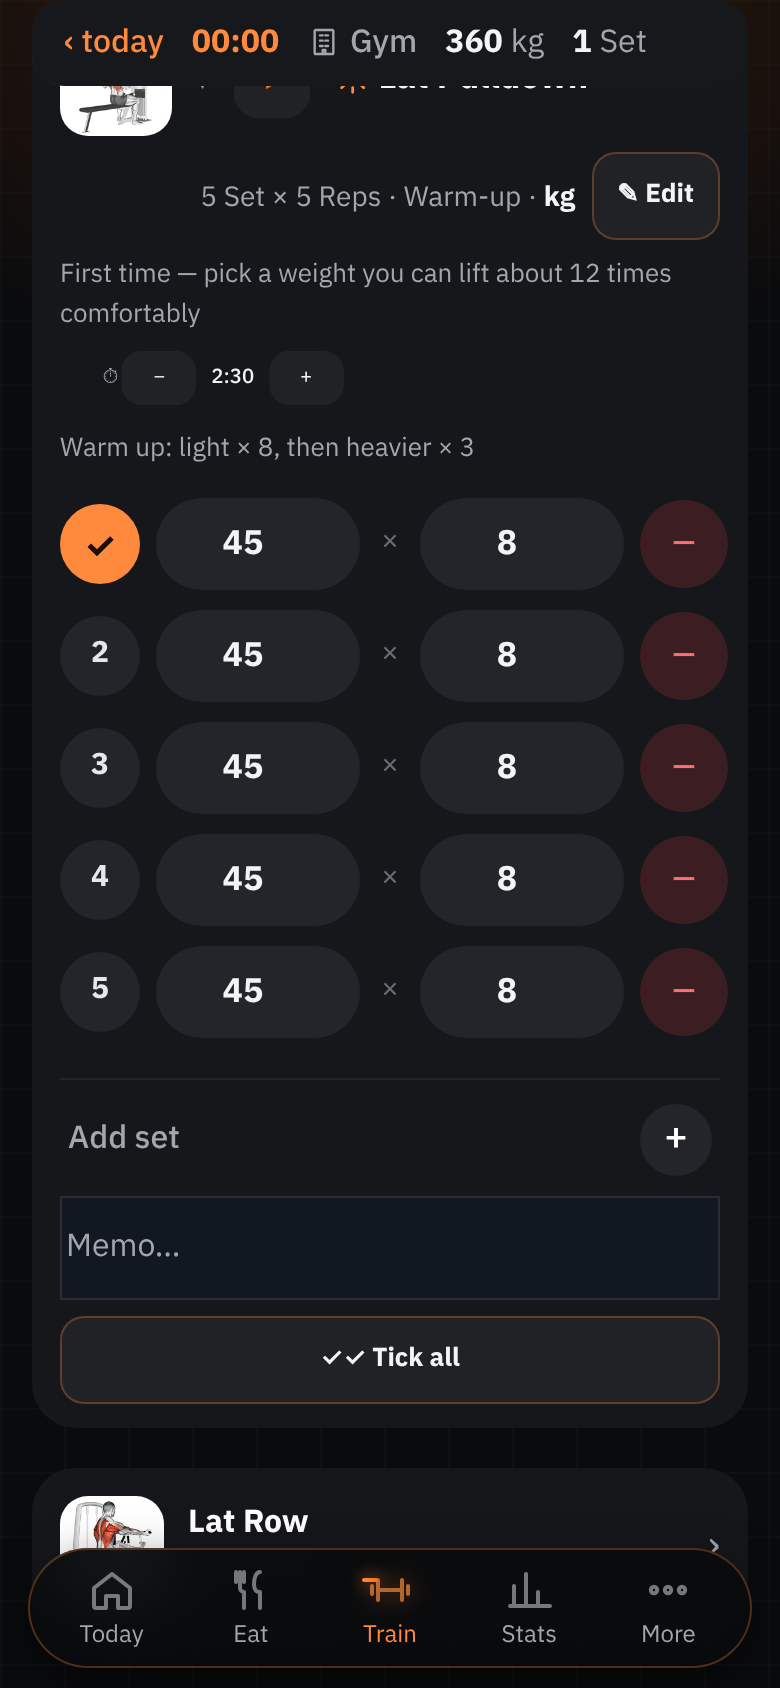
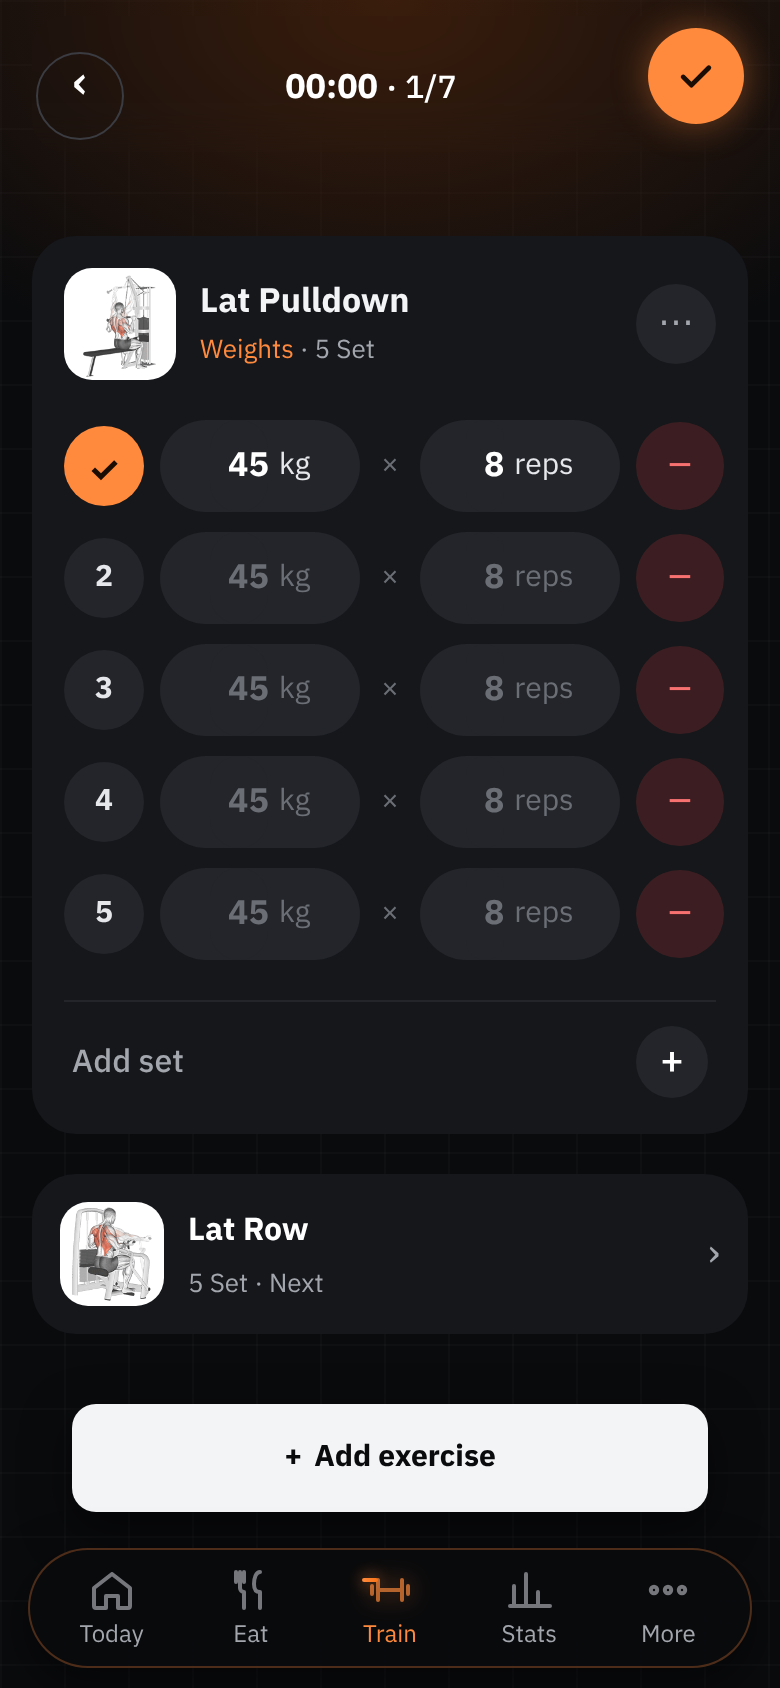
Workout: match mock 3 (#269)
* Train: Start button identical to Today's

Claude-Session: https://claude.ai/code/session_01TA1QFnqgBxBRFsiXemJ9Lg

* fix(Train workout): Cancel / Finish stay reachable while the rest timer runs

Claude-Session: https://claude.ai/code/session_01TA1QFnqgBxBRFsiXemJ9Lg

* fix(Train workout): editing an exercise shows one bottom bar and a labelled Done

Claude-Session: https://claude.ai/code/session_01TA1QFnqgBxBRFsiXemJ9Lg

* Train: Main lift and reorder arrows only in Edit exercises

Claude-Session: https://claude.ai/code/session_01TA1QFnqgBxBRFsiXemJ9Lg

* Train workout: close the rest timer before Cancel / Finish

Claude-Session: https://claude.ai/code/session_01TA1QFnqgBxBRFsiXemJ9Lg

* Train: one typeface everywhere

Claude-Session: https://claude.ai/code/session_01TA1QFnqgBxBRFsiXemJ9Lg

* Train workout: Cancel / Finish sit right after Add exercise, no floating

Claude-Session: https://claude.ai/code/session_01TA1QFnqgBxBRFsiXemJ9Lg

* Train: program sheet lists every exercise

Claude-Session: https://claude.ai/code/session_01TA1QFnqgBxBRFsiXemJ9Lg

* Back to today: one look on Today/Eat/Train

Claude-Session: https://claude.ai/code/session_01TA1QFnqgBxBRFsiXemJ9Lg

* Program sheet: numbered exercises, how-to, no place chip

Claude-Session: https://claude.ai/code/session_01TA1QFnqgBxBRFsiXemJ9Lg

* Program sheet: one line per exercise

Claude-Session: https://claude.ai/code/session_01TA1QFnqgBxBRFsiXemJ9Lg

* Train & Eat rows follow Today row layout
[…]

diff --git a/public/js/workout.js b/public/js/workout.js
@@ -216,3 +216,24 @@ function decorateSets(){const ex=sessEx();document.querySelectorAll("#exs>.ex").
 {const o=renderEx;renderEx=function(){const r=o.apply(this,arguments);try{decorateSets()}catch(e){console.error(e)}return r}}
 {const o=applyPager;applyPager=function(){const r=o.apply(this,arguments);try{decorateSets()}catch(e){}return r}}
 Object.assign(EN,{"เพิ่มเซ็ต":"Add set"});
+/* ===== workout = mock 3 exactly: top bar ‹ time · i/n ✓, card header thumb+name+sub+•••, pills with units, white Add exercise ===== */
+function mockTop(){const tp=document.getElementById("wo-top");if(!tp)return;if(!tp.querySelector(".wt-fin")){tp.insertAdjacentHTML("beforeend",`<span class="wt-pos" id="wt-pos"></span><button class="wt-fin" aria-label="${t("จบและบันทึก")}"><svg viewBox="0 0 24 24" width="22" height="22"><path d="M5 12.5l4.5 4.5L19 7.5" fill="none" stroke="currentColor" stroke-width="2.6" stroke-linecap="round" stroke-linejoin="round"/></svg></button>`);tp.querySelector(".wt-fin").addEventListener("click",()=>document.getElementById("save-w").click())}
+  const n=document.querySelectorAll("#exs>.ex").length;const p=document.getElementById("wt-pos");if(p)p.textContent=n?` · ${woIdx+1}/${n}`:""}
+function mockCards(){const ex=sessEx();document.querySelectorAll("#exs>.ex").forEach((card,ci)=>{const e=ex[ci];if(!e||card.dataset.mk)return;card.dataset.mk=1;
+  const L=lastFor(e.id),rows=(draft.ex||{})[e.id]||[],u=e.u||"kg";const kind=(()=>{try{return isCardio(PROGS[cur])?t("คาร์ดิโอ"):t("เวท")}catch(x){return ""}})();
+  const g=(()=>{try{return gifOf(EXLIB.find(q=>q.id===e.id)||e)}catch(x){return ""}})();
+  const hd=document.createElement("div");hd.className="mk-h";hd.innerHTML=`<span class="ls-th"${g?` style="background-image:url('${esc(g)}')"`:""}>${g?"":licon("dumbbell")}</span><span class="mk-t"><b>${esc(e.n)}</b><small><em>${kind}</em> · ${rows.length} ${t("เซ็ต")}${L&&L.sets[0]?` · ${t("ล่าสุด")} ${toDisp(L.sets[0].kg,u)}${u}×${L.sets[0].reps}`:""}</small></span><button type="button" class="mk-more" aria-label="${t("ตัวเลือก")}">⋯</button>`;
+  card.prepend(hd);
+  hd.querySelector(".mk-more").addEventListener("click",()=>{const q=s=>card.querySelector(s);
+    openGen(esc(e.n),`<div class="pm-menu">${[["how","▶","วิธีเล่น"],["edit","✎","แก้ไขท่า"],["load","↺","ใช้ค่าครั้งก่อน"],["all","✓✓","ติ๊กทุกเซ็ต"],["memo","✎","เมโม"],["rest","⏱",`${t("เวลาพัก")} ${fmt(restFor(e))}`],["unit","⇄",`${t("หน่วย")}: ${u}`],["cancel","✕","ยกเลิกการออก"]].filter(([k])=>k!=="load"||q("[data-load]")).map(([k,i,l])=>`<button class="menu-row${k==="cancel"?" warn":""}" data-mk="${k}"><span class="mi">${i}</span><span class="mt"><b>${t(l)}</b></span></button>`).join("")}</div><button class="btn" data-gen-close>${t("ปิด")}</button>`,
+      b=>b.querySelectorAll("[data-mk]").forEach(x=>x.addEventListener("click",()=>{const k=x.dataset.mk;closeGen();
+        if(k==="how")openHowTo(e.id,e.n);else if(k==="edit")q("[data-edit]")?.click();else if(k==="load")q("[data-load]")?.click();else if(k==="all")q("[data-all]")?.click();
+        else if(k==="memo"){const v=prompt(t("เมโม…"),(draft.memo||{})[e.id]||"");if(v!=null){draft.memo=draft.memo||{};draft.memo[e.id]=v;save("gymdraft",draft)}}
+        else if(k==="rest"){const v=prompt(t("เวลาพัก (วินาที)"),restFor(e));if(v&&+v>0){restCfg[e.id]=Math.max(15,Math.min(600,+v));save("restcfg",restCfg)}}
+        else if(k==="unit")q("[data-unit]")?.click();else if(k==="cancel")document.getElementById("cancel-w").click()})))});
+  /* pills: value + unit, future rows dimmed */
+  const first=rows.findIndex(r=>!r.ok);card.querySelectorAll(".sets.ls input[data-pad]").forEach(inp=>{if(inp.parentElement.classList.contains("mk-pill"))return;const w=document.createElement("span");w.className="mk-pill";inp.before(w);w.append(inp);w.insertAdjacentHTML("beforeend",`<i>${inp.dataset.pad==="kg"?u:t("ครั้ง_pm").replace(/_pm$/,"")}</i>`);
+    const i=+inp.id.split("-").pop();if(first>=0&&i>first)w.classList.add("dim");const fit=()=>{inp.style.width=(Math.max(1,String(inp.value||inp.placeholder||"").length)*0.62+0.5)+"em"};fit();inp.addEventListener("input",fit);inp.addEventListener("change",fit)})})}
+{const o=renderEx;renderEx=function(){const r=o.apply(this,arguments);try{mockCards();mockTop()}catch(e){console.error(e)}return r}}
+{const o=applyPager;applyPager=function(){const r=o.apply(this,arguments);try{mockTop()}catch(e){}return r}}
+Object.assign(EN,{"ตัวเลือก":"Options","แก้ไขท่า":"Edit exercise","ใช้ค่าครั้งก่อน":"Use last session","ติ๊กทุกเซ็ต":"Tick all sets","เมโม":"Memo","เวลาพัก":"Rest","เวลาพัก (วินาที)":"Rest (seconds)","หน่วย":"Unit","ยกเลิกการออก":"Cancel workout"});

diff --git a/public/index.html b/public/index.html
@@ -8,11 +8,11 @@
 <meta name="apple-mobile-web-app-status-bar-style" content="black-translucent">
 <meta name="apple-mobile-web-app-title" content="WeightGram">
 <link rel="manifest" href="/manifest.webmanifest">
-<link rel="apple-touch-icon" href="/apple-touch-icon.png?v=138704">
+<link rel="apple-touch-icon" href="/apple-touch-icon.png?v=138707">
 <title>WeightGram</title>
 <link rel="stylesheet" href="https://fonts.googleapis.com/css2?family=IBM+Plex+Sans+Thai:wght@400;500;700&family=IBM+Plex+Mono:wght@400;500&family=Share+Tech+Mono&display=swap">
 <style>:root{padding-top:env(safe-area-inset-top,0px);padding-bottom:env(safe-area-inset-bottom,0px)}*{-webkit-tap-highlight-color:transparent}body{margin:0;font-size:var(--t-sm);font-family:system-ui,sans-serif}img{max-width:100%}[hidden]{display:none!important}</style>
-<link rel="stylesheet" href="/css/app.css?v=138704">
+<link rel="stylesheet" href="/css/app.css?v=138707">
 </head><body>
 
 <div class="wrap">
@@ -283,39 +283,39 @@
   </div>
 </div>
 
-<script src="/js/core.js?v=138704"></script>
-<script src="/js/food.js?v=138704"></script>
-<script src="/js/locations.js?v=138704"></script>
-<script src="/js/programs.js?v=138704"></script>
-<script src="/js/run.js?v=138704"></script>
-<script src="/js/workout.js?v=138704"></script>
-<script src="/js/exercise-edit.js?v=138704"></script>
-<script src="/js/edit-tx.js?v=138704"></script>
-<script src="/js/exercise-library.js?v=138704"></script>
-<script src="/js/program-manager.js?v=138704"></script>
-<script src="/js/hero.js?v=138704"></script>
-<script src="/js/rest-timer.js?v=138704"></script>
-<script src="/js/auth.js?v=138704"></script>
-<script src="/js/push.js?v=138704"></script>
-<script src="/js/data-io.js?v=138704"></script>
-<script src="/js/sync.js?v=138704"></script>
-<script src="/js/muscle-map.js?v=138704"></script>
-<script src="/js/progress.js?v=138704"></script>
-<script src="/js/history-chart.js?v=138704"></script>
-<script src="/js/stats-extra.js?v=138704"></script>
-<script src="/js/meal-plan.js?v=138704"></script>
-<script src="/js/undo.js?v=138704"></script>
-<script src="/js/home.js?v=138704"></script>
-<script src="/js/share.js?v=138704"></script>
-<script src="/js/explore.js?v=138704"></script>
-<script src="/js/onboarding.js?v=138704"></script>
-<script src="/js/account.js?v=138704"></script>
-<script src="/js/share-card.js?v=138704"></script>
-<script src="/js/number-pad.js?v=138704"></script>
-<script src="/js/refresh.js?v=138704"></script>
-<script src="/js/app.js?v=138704"></script>
-<script src="/js/stats-calm.js?v=138704"></script>
-<script src="/js/ai-coach.js?v=138704"></script>
+<script src="/js/core.js?v=138707"></script>
+<script src="/js/food.js?v=138707"></script>
+<script src="/js/locations.js?v=138707"></script>
+<script src="/js/programs.js?v=138707"></script>
+<script src="/js/run.js?v=138707"></script>
+<script src="/js/workout.js?v=138707"></script>
+<script src="/js/exercise-edit.js?v=138707"></script>
+<script src="/js/edit-tx.js?v=138707"></script>
+<script src="/js/exercise-library.js?v=138707"></script>
+<script src="/js/program-manager.js?v=138707"></script>
+<script src="/js/hero.js?v=138707"></script>
+<script src="/js/rest-timer.js?v=138707"></script>
+<script src="/js/auth.js?v=138707"></script>
+<script src="/js/push.js?v=138707"></script>
+<script src="/js/data-io.js?v=138707"></script>
+<script src="/js/sync.js?v=138707"></script>
+<script src="/js/muscle-map.js?v=138707"></script>
+<script src="/js/progress.js?v=138707"></script>
+<script src="/js/history-chart.js?v=138707"></script>
+<script src="/js/stats-extra.js?v=138707"></script>
+<script src="/js/meal-plan.js?v=138707"></script>
+<script src="/js/undo.js?v=138707"></script>
+<script src="/js/home.js?v=138707"></script>
+<script src="/js/share.js?v=138707"></script>
+<script src="/js/explore.js?v=138707"></script>
+<script src="/js/onboarding.js?v=138707"></script>
+<script src="/js/account.js?v=138707"></script>
+<script src="/js/share-card.js?v=138707"></script>
+<script src="/js/number-pad.js?v=138707"></script>
+<script src="/js/refresh.js?v=138707"></script>
+<script src="/js/app.js?v=138707"></script>
+<script src="/js/stats-calm.js?v=138707"></script>
+<script src="/js/ai-coach.js?v=138707"></script>
 
 <div id="rec-wrap" class="stack" style="gap:10px" hidden><div class="rcf-head"><div class="sec-t" data-i="การฟื้นตัวของกล้ามเนื้อ">การฟื้นตัวของกล้ามเนื้อ</div><button class="btn sm" id="rec-cfg">⚙ <span data-i="ตั้งเวลาฟื้นตัว">ตั้งเวลาฟื้นตัว</span></button></div><div class="card" id="rec-body"></div></div>
 </body></html>

diff --git a/public/css/app.css b/public/css/app.css
@@ -1973,3 +1973,31 @@ body{background:radial-gradient(120% 38% at 50% 0%,#3a1d0c,transparent 62%),line
 .ru-go{flex:none;display:grid!important;place-items:center;padding:0!important;line-height:0}.ru-go svg{display:block;transform:translateX(1px)}
 #rest.player #rest-skip.paused::before{width:0;height:0;background:none;border-style:solid;border-width:20px 0 20px 32px;border-color:transparent transparent transparent #1a0d04;transform:translate(-38%,-50%)}
 :root{--text:#f3f4f6}
+/* ===== workout mock 3 exact ===== */
+#v-gym #wo-top:not([hidden]){display:grid!important;grid-template-columns:44px 1fr 48px!important;align-items:center;gap:8px!important;padding:6px 2px!important;background:none!important;border:0!important}
+#v-gym #wo-top .wo-loc,#v-gym #wo-top .wo-stat,#v-gym #wo-top #wo-finish{display:none!important}
+#v-gym #wo-top .wo-back{grid-column:1;width:44px!important;height:44px!important;border-radius:50%!important;border:1px solid #3a3c42!important;font-size:0!important;display:grid!important;place-items:center;color:#fff!important}
+#v-gym #wo-top .wo-back::before{content:"‹";font-size:24px;line-height:1}
+#v-gym #wo-top .wo-clock{grid-column:2;grid-row:1;justify-self:center;color:#fff!important;font:700 17px var(--f-body)!important}
+#v-gym #wo-top .wt-pos{grid-column:2;grid-row:1;justify-self:center;color:#fff;font:700 17px var(--f-body);transform:translateX(calc(50% + 24px))}
+#v-gym #wo-top .wo-clock{transform:translateX(-24px)}
+.wt-fin{grid-column:3;width:48px;height:48px;border-radius:50%;border:0;background:#ff8a3d;color:#1a0d04;display:grid;place-items:center;cursor:pointer;box-shadow:0 0 18px rgba(255,138,61,.4)}
+#v-gym #step3>#step4,#v-gym .note-in,#v-gym .wo-pager,#v-gym #step3>.step{display:none!important}
+#v-gym .ex>.row-head,#v-gym .ex>.last,#v-gym .ex .zone,#v-gym .ex>.memo,#v-gym .ex>.actions,#v-gym .ex .restset{display:none!important}
+.mk-h{display:flex;align-items:center;gap:12px;margin-bottom:12px}.mk-t{flex:1;min-width:0;display:grid;gap:2px}.mk-t b{font-size:17px}.mk-t small{color:#a3a6ad;font-size:13px}.mk-t em{color:#ff8a3d;font-style:normal}
+.mk-more{flex:none;width:40px;height:40px;border-radius:50%;border:0;background:#23252a;color:#a3a6ad;font-size:18px;cursor:pointer}
+#v-gym .ex .mk-h .ls-th{width:56px;height:56px}
+.mk-pill{display:flex;align-items:baseline;justify-content:center;gap:5px;height:46px;border-radius:23px;background:#23252a;padding:0 10px}
+.mk-pill input{width:3ch;height:auto!important;min-height:0!important;padding:0!important;background:none!important;border:0!important;text-align:right!important;font:600 17px var(--f-body)!important;color:#fff!important;align-self:center}
+.mk-pill i{font-style:normal;color:#e5e7eb;font-size:15px;align-self:center}.mk-pill.dim input,.mk-pill.dim i{color:#6b6e75!important}
+#v-gym .ex .sets.ls{grid-template-columns:40px 1fr 14px 1fr 40px!important}
+#v-gym #wo-add{position:fixed!important;left:36px;right:36px;bottom:calc(var(--tabh,84px) + 14px);z-index:9;height:54px!important;border-radius:28px!important;box-shadow:0 8px 24px rgba(0,0,0,.5)!important}
+#v-gym #exs{padding-bottom:90px}
+#v-gym .ex{padding:16px!important}
+#v-gym #wo-top:not([hidden])>.wt-fin{width:48px!important;height:48px!important;border-radius:50%!important;background:#ff8a3d!important;color:#1a0d04!important;padding:0!important;display:grid!important;place-items:center;box-shadow:0 0 18px rgba(255,138,61,.4)!important}
+#v-gym #wo-top .wo-clock{justify-self:end!important;transform:none!important;text-align:right;padding-right:4px!important}
+#v-gym #wo-top .wt-pos{justify-self:start!important;transform:none!important;margin-left:50%!important;padding-left:2px}
+#v-gym #wo-top .wo-clock{margin-right:50%!important}
+.mk-pill input{overflow:visible}
+.mk-pill input{-moz-appearance:textfield;appearance:textfield}
+.mk-pill input::-webkit-outer-spin-button,.mk-pill input::-webkit-inner-spin-button{-webkit-appearance:none;margin:0;display:none}

diff --git a/docs/work/2026-11-23-lime-redesign/plan-mock3.md b/docs/work/2026-11-23-lime-redesign/plan-mock3.md
@@ -1,0 +1,6 @@
+# Workout = mock 3
+- [x] top bar: ‹ circle, "time · i/n", orange ✓ (Finish)
+- [x] hidden: Cancel/Finish row, note, pager, old header/last/rest/warm/memo/actions
+- [x] card header: gif thumb, name, "Weights · N sets · last Xkg×Y", ⋯ menu (How to, Edit, Use last, Tick all, Memo, Rest, Unit, Cancel workout)
+- [x] pills "45 kg" × "8 reps", future sets dimmed
+- [x] white Add exercise pinned above tab bar
